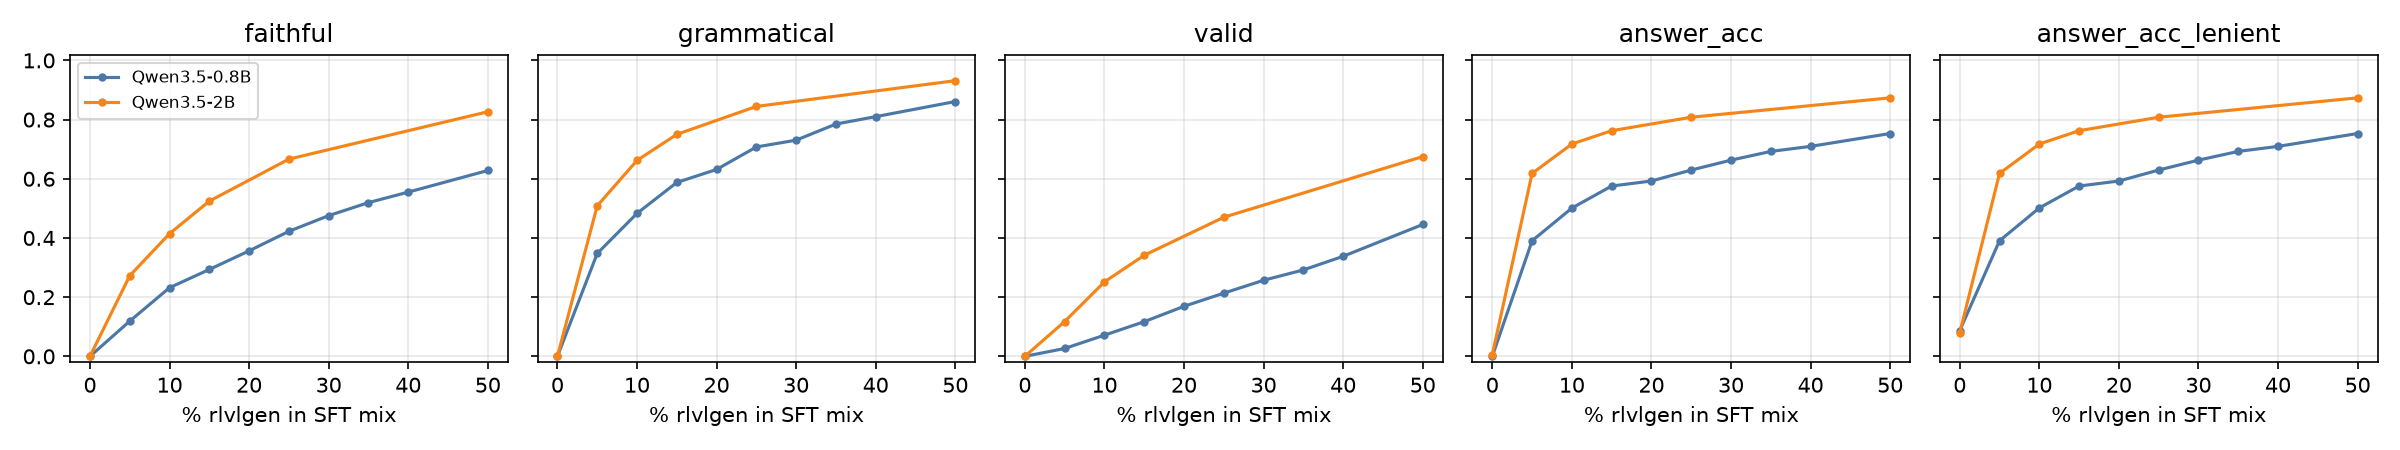
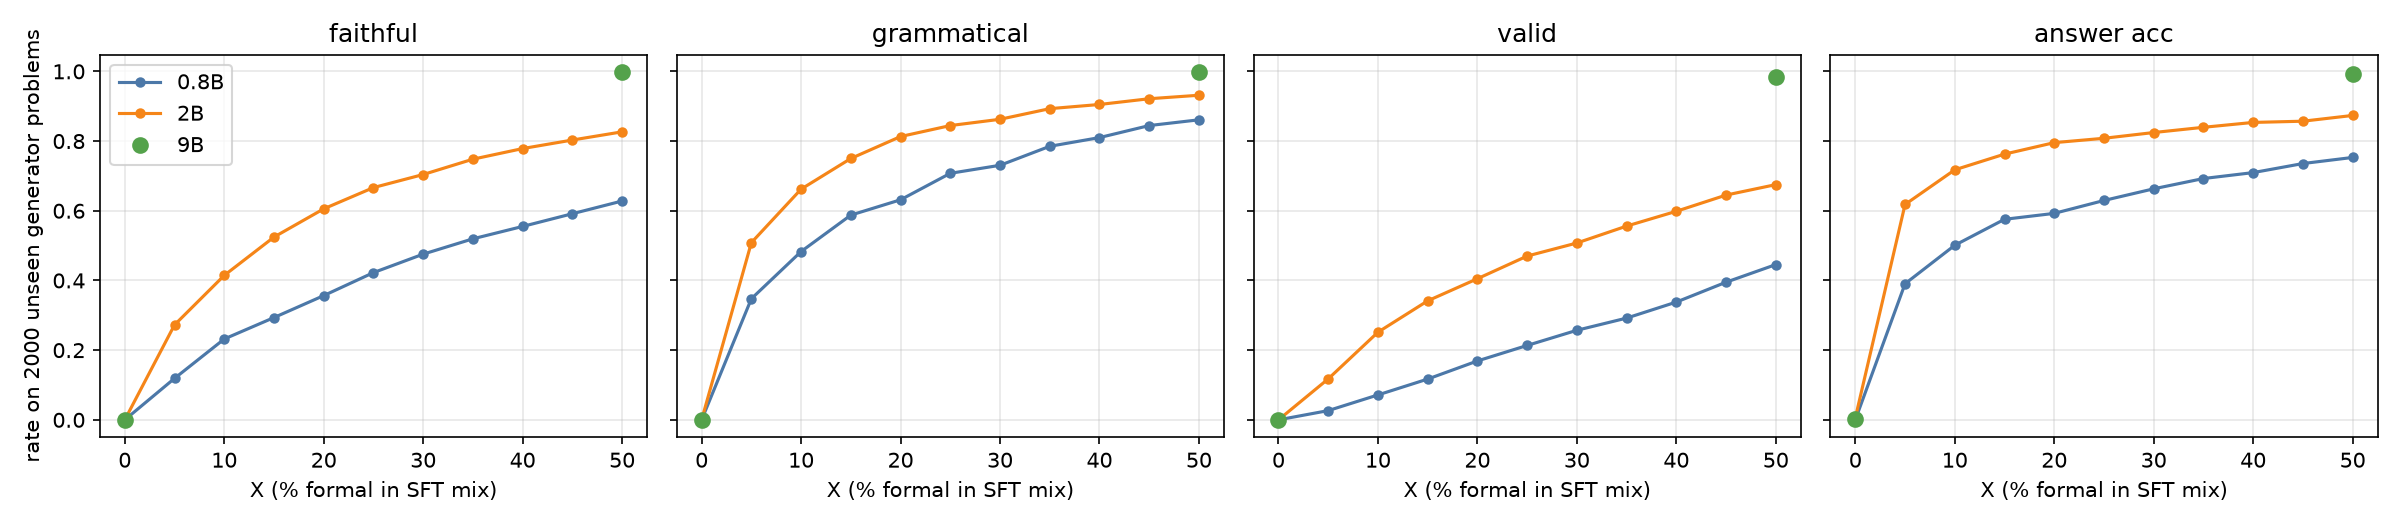
Stage 1: 9B p50 in-domain eval (valid .983), full 2B curve figure; G6g 7025, gate queue 7026
Claude-Session: https://claude.ai/code/session_01WnQYXLXLcnkw9LdZ4eJP3w

diff --git a/scripts/analysis/stage1_indomain_curves.py b/scripts/analysis/stage1_indomain_curves.py
@@ -1,0 +1,42 @@
+#!/usr/bin/env python
+"""In-domain rates vs mixture share X for every Stage-1 cell with a finished formal eval (2026-09-28).
+
+Reads rlvl_data/formal_mixture_sft_20260925/qwen35_<size>_dolci_rlvlgen_p<X>_lr5em6_seed3407/formal_eval/summary.json
+(2000 unseen generator problems per cell) and writes reports/figures/stage1_indomain_curves.png plus a
+markdown table on stdout.
+"""
+import json
+import re
+from pathlib import Path
+
+import matplotlib
+matplotlib.use("Agg")
+import matplotlib.pyplot as plt
+
+ROOT = Path("/vol/tmp2/laitenbf/rlvl_data/formal_mixture_sft_20260925")
+FIG = Path(__file__).resolve().parents[2] / "reports/figures"
+MET = [("faithful", "faithful"), ("grammatical", "grammatical"), ("valid", "valid"), ("answer_acc", "answer acc")]
+COL = {"0.8b": "#4C78A8", "2b": "#F58518", "9b": "#54A24B"}
+
+res = {}
+for f in ROOT.glob("qwen35_*_dolci_rlvlgen_p*_lr5em6_seed3407/formal_eval/summary.json"):
+    m = re.search(r"qwen35_([\d.]+b)_dolci_rlvlgen_p(\d+)", str(f))
+    res.setdefault(m[1], {})[int(m[2])] = json.load(open(f))["overall"]
+print("| model | X | " + " | ".join(l for _, l in MET) + " |\n|---|---|" + "---|" * len(MET))
+for size in sorted(res, key=lambda s: float(s[:-1])):
+    for x in sorted(res[size]):
+        print(f"| {size.upper()} | {x} | " + " | ".join(f"{res[size][x][k]:.3f}".replace("0.", ".", 1) for k, _ in MET) + " |")
+fig, axes = plt.subplots(1, len(MET), figsize=(4 * len(MET), 3.5), sharey=True)
+for ax, (k, lbl) in zip(axes, MET):
+    for size in sorted(res, key=lambda s: float(s[:-1])):
+        xs = sorted(res[size])
+        # sizes with few cells: points only, a line through 0 and 50 would suggest a measured trend
+        ax.plot(xs, [res[size][x][k] for x in xs], "-o" if len(xs) >= 4 else "o", ms=4 if len(xs) >= 4 else 7,
+                color=COL.get(size), label=size.upper())
+    ax.set_title(lbl)
+    ax.set_xlabel("X (% formal in SFT mix)")
+    ax.grid(alpha=.3)
+axes[0].set_ylabel("rate on 2000 unseen generator problems")
+axes[0].legend()
+fig.tight_layout()
+fig.savefig(FIG / "stage1_indomain_curves.png", dpi=150)

diff --git a/docs/current_system_state.md b/docs/current_system_state.md
@@ -9,7 +9,7 @@ This is the short operational handoff. Historical detail was preserved verbatim 
 - **Training:** Qwen3.5-Base 0.8B/2B at X=0..50 and 9B at X=0,10,25,50 are trained on Dolci with X% generated formal-CoT data.
 - **Evals:** in-domain faithful/grammatical/valid; untagged lm-eval downstream suite; format-tagged downstream eval (`eval_formal_bench_vllm.py`).
 - **Live state:** `docs/running_experiments.md`.
-- **Stage 2 (2026-09-28):** the gate failed (in_system ≈ 0.3% on the Dolci-RL prompts). The expert-iteration collection is done: prefix resampling solved 50 of 3,191 prompts, giving 77 proofs; the SFT is deferred. The GRPO pilots were restarted on a balanced prompt pool (`--max-per-bench 1200`) as 6960 (G1), 6962 (G0) and 6964 (G5 dense `lines`, gruenau12); 2B. G3 (6965) died at step 49 from an rlvl panic (fixed). The held-out gate on G5 @50 showed a circular-`given` hack, so `formal_rewards` now requires >= 1 derived line and no circular `given` for valid; the hardened arms are 6978 (G3b, gruenau12) and 7000 (G5c `lines_fmt`, gruenau8; also excludes tautological lines and zeroes the reward unless the output ends `</proof>` + `Answer:` line, after G5 padded and ran on past step 60). 6977 (G5b) cancelled. The user's fraction reward was audited (report update 21:00): plain `frac` pays an invented-premise 2-line proof 1.00 > gold .97; `frac_hard` (numeric premise check, format, no circular) floors all hacks except invented logic premises; exact faithfulness on generator items floors all. Arms: G6 (frac_hard Dolci) running as 7020 on gruenau9 A100 GPU0 (7006 OOMed on a shared L40; 7013 left no output); G6g (+ gen items) died on shared A100s (7007, 7009, 7021 guard exit on gruenau10) and waits for a clean GPU. 9B p50 gate (6933): in-system .020, correct .316 (9B p0 .259); 9B p50 formal eval resubmitted as 7019 (MAX_NUM_SEQS=128) after 6840 failed on Mamba cache blocks. 6964 (G5) cancelled at step 116. Foreign non-Slurm GPU processes: gruenau9 all A100s, gruenau10 GPU1-2, gruenau12 7 of 10 L40s (hallepat); `grpo_formal.slurm` has a MIN_FREE_MIB guard. GRPO code: `scripts/grpo_formal.py` + `.venv_rlvl_grpo`. Plan: `docs/research_plan.md`.
+- **Stage 2 (2026-09-28):** the gate failed (in_system ≈ 0.3% on the Dolci-RL prompts). The expert-iteration collection is done: prefix resampling solved 50 of 3,191 prompts, giving 77 proofs; the SFT is deferred. The GRPO pilots were restarted on a balanced prompt pool (`--max-per-bench 1200`) as 6960 (G1), 6962 (G0) and 6964 (G5 dense `lines`, gruenau12); 2B. G3 (6965) died at step 49 from an rlvl panic (fixed). The held-out gate on G5 @50 showed a circular-`given` hack, so `formal_rewards` now requires >= 1 derived line and no circular `given` for valid; the hardened arms are 6978 (G3b, gruenau12) and 7000 (G5c `lines_fmt`, gruenau8; also excludes tautological lines and zeroes the reward unless the output ends `</proof>` + `Answer:` line, after G5 padded and ran on past step 60). 6977 (G5b) cancelled. The user's fraction reward was audited (report update 21:00): plain `frac` pays an invented-premise 2-line proof 1.00 > gold .97; `frac_hard` (numeric premise check, format, no circular) floors all hacks except invented logic premises; exact faithfulness on generator items floors all. Arms: G6 (frac_hard Dolci) running as 7020 on gruenau9 A100 GPU0 (7006 OOMed on a shared L40; 7013 left no output); G6g (+ gen items) running as 7025 on gruenau10 A100 GPU0 (7007, 7009, 7021 died on shared GPUs). Gate queue 7026 (gruenau12) gates G0@100, G3b@50, G5c@50, G3b@100, G6@50. 9B p50 gate (6933): in-system .020, correct .316 (9B p0 .259); 9B p50 in-domain eval (7019): faithful .999, valid .983, answer .992 (2B p50 .827/.675/.874). 6964 (G5) cancelled at step 116. Foreign non-Slurm GPU processes: gruenau9 all A100s, gruenau10 GPU1-2, gruenau12 7 of 10 L40s (hallepat); `grpo_formal.slurm` has a MIN_FREE_MIB guard. GRPO code: `scripts/grpo_formal.py` + `.venv_rlvl_grpo`. Plan: `docs/research_plan.md`.
 
 ## Where To Look
 

diff --git a/docs/experiment_backlog.md b/docs/experiment_backlog.md
@@ -8,7 +8,7 @@ This file is for planned work that is not yet running. Running jobs live in `doc
 
 | Priority | Item | Why | Trigger |
 | --- | --- | --- | --- |
-| Next 2026-09-28 | Stage 2 GRPO arms G0–G5, full runs (`scripts/grpo_formal.py`) | Research plan Stage 2 | After the gate passes (EI bootstrap and 200-step balanced-pool pilots G1 6960, G0 6962, G5 6964 running; hardened-validity arms G3b 6978 / G5c 7000 (lines x format gate; G5b 6977 cancelled); fraction-reward arms G6 7020 (7006 OOM, 7013 no output) (frac_hard, Dolci) / G6g (7007/7009/7021 died on shared GPUs; waiting for a clean GPU) (frac_hard + generator items with exact faithfulness); next: semantic premise check for Dolci logic premises; see `reports/2026-09-28_stage2_gate.md`) |
+| Next 2026-09-28 | Stage 2 GRPO arms G0–G5, full runs (`scripts/grpo_formal.py`) | Research plan Stage 2 | After the gate passes (EI bootstrap and 200-step balanced-pool pilots G1 6960, G0 6962, G5 6964 running; hardened-validity arms G3b 6978 / G5c 7000 (lines x format gate; G5b 6977 cancelled); fraction-reward arms G6 7020 (7006 OOM, 7013 no output) (frac_hard, Dolci) / G6g 7025 (7007/7009/7021 died on shared GPUs); gate queue 7026 (frac_hard + generator items with exact faithfulness); next: semantic premise check for Dolci logic premises; see `reports/2026-09-28_stage2_gate.md`) |
 | Running 2026-09-25 | Formal-CoT SFT mixture sweep: 0.8B and 2B, X=0..50 | Lane layout, see `docs/running_experiments.md`. The 9B runs (X=0,10,25,50) run on gruenau11 with 2 × H100 under DeepSpeed ZeRO-2 CPU-offload + liger FLCE (FSDP OOMed; jobs 6837/6839/6841/6843). Downstream benchmarks for all cells run on guppi lanes (2026-09-26). | Run `scripts/analysis/analyze_formal_mixture_sweep.py` and `scripts/analysis/formal_mix_bench_table.py` as cells finish. Inspect raw generations. |
 | Pending 2026-09-26 | Format-tagged benchmarks for every sweep checkpoint (0.8B, 2B, 9B) | Measures whether models reason fully in the system on real benchmarks: grammatical, valid and in-system correct. The untagged lm-eval run only measures transfer. | Submit with `scripts/submit_formal_mix_bench_lanes.sh --tagged --chain ...` once Slurm is back and the smoke run (PER_BENCH_LIMIT=5) looks sane. Then run `scripts/analysis/formal_mix_tagged_table.py`. |
 | P0 sampled readout complete 2026-08-07 | Real-benchmark pass@k / maj@k readout for the three-way post-SFT checkpoints | `3962322_[0-5%3]` completed `0:0`; all six full-coverage audits accept corrected RoPE, prompt hashes, 16 samples/doc, and zero truncation. Raw correct/incorrect examples across all five tasks reproduce the established answer-boundary confound. Standard pass@16 control/logic/NL is `0.7588/0.7540/0.7621`; tagged multi-hop is `0.5150/0.5383/0.5283`, with sampled tag rates `0.6445/0.8346/0.8440` and fallback `0.5317/0.5417/0.5317`. | Diagnostic is ingested in `analysis/dolmino_threeway_post_sft_readout_20260806.md` and does not alter the one-run null-for-reasoning verdict. Do not use sampled pass@k/maj@k as a positive transfer claim or launch the percentage grid; P0 remains the compact/document-preserving loader gate. |

diff --git a/docs/project_log.md b/docs/project_log.md
@@ -4163,3 +4163,4 @@ Downstream benchmarks of the "Lead into Gold" paper now run for every checkpoint
 - 21:30: 7006 G6 died at step 0 with CUDA OOM: its L40 had only 26.8 GB free because hallepat runs non-Slurm Qwen3.5-4B evals (10-18 GB each) on 7 of the 10 gruenau12 L40s. 7009 G6g died at vLLM start on gruenau10 GPU0 (5.3 GB free; the GPU was shared). Cancelled 6964 (G5 lines at step 116, already shown hacked and gated @50/@100; held 3 L40s for one run, and with 6840/6933 starting put laitenbf at 6/10 on gruenau12). grpo_formal.slurm now exits 3 when free memory < MIN_FREE_MIB. Resubmitted G6 as 7013 (gruenau12 L40, MIN_FREE_MIB=44000). G6g is not resubmitted yet: no clean GPU is free within the caps (gruenau9 A100s all ~66-68 GB used by foreign processes).
 - 21:25: alex `/home/atuin` group quota cleanup (was 11.0T > 10.7T soft, 454K files; approved by the user): deleted the optimizer states of the 9 finished nanotron longwin midtrain runs (step 2385; model weights kept), the p30 intermediate step 2250, `post_sft_narrative_20260915/qwen25_7b_tulu3_control_seed3407/checkpoint-782` (final kept), the two large-LoRA smoke `checkpoint-4`, the HF cache of Qwen2.5-32B and Qwen3-30B-A3B-Base, and the vllm/uv/triton/inductor caches under `.cache_rlvl`. Now 9.8T, 402K files. Log: `/home/atuin/c107fa/c107fa12/synthetic-RLVL/cleanup_20260928.log`. Kept: all `post_sft_*/final`, datasets, eval outputs, and the orphan `qwen25_7b_dose_logic_p001_seed3407/checkpoint-500` (no final).
 - 21:45: 9B p50 gate (6933, 950 held-out, greedy): has_proof .765, grammatical .200, valid .032, correct .316 (9B p0 .259), in-system .020 (2B p50 .003). Correct rises on yes/no (.53 vs .18) and word problems (.56 vs .45) and falls ~.08 on math/DAPO, where 9B p50 still writes proofs that do not parse. 6840 (9B p50 formal eval) failed at vLLM start: hybrid model needs one Mamba cache block per sequence, a shared L40 fit 219 < 256. Added `--max-num-seqs` to eval_formal_vllm.py (`MAX_NUM_SEQS` in the eval job); resubmitted as 7019 (gruenau12 L40, 128). Report: stage2_gate update 21:45. G6 resubmitted as 7020 on gruenau9 (GPU0 clean now; 7013 left no output); G6g 7021 exited on the guard on gruenau10 (shared GPU).
+- 22:55: 9B p50 formal eval (7019, 2000 unseen generator problems): faithful .999, grammatical .999, valid .983, answer .992 (2B p50: .827/.931/.675/.874). 2B in-domain sweep complete (p20 eval after 6733 finished 21:58). New scripts/analysis/stage1_indomain_curves.py rebuilds the Stage-1 in-domain figure from all summaries. G6g resubmitted as 7025 on gruenau10 (GPU0 clean now; passed the guard). New scripts/slurm/jobs/grpo_gate_ckpts.slurm (standalone gate queue); 7026 on gruenau12 L40 gates G0@100, G3b@50, G5c@50, G3b@100, G6@50 as they are written. G6 7020 at step 18 (165 s/step).

diff --git a/docs/running_experiments.md b/docs/running_experiments.md
@@ -19,6 +19,7 @@ This file is the live Slurm dashboard. Historical details live in `docs/operatio
   - 2026-09-28 19:45: 6977 G5b cancelled at step ~27 (same lines formula as G5, which padded proofs and dropped the `Answer:` line after step 60). **7000 G5c `--arm lines_fmt` (gruenau8 A6000, partition gpu, batch 1, vllm-mem 0.25, 200 steps, save every 50)**: lines x format_ok, tautological derived lines excluded.
   - 2026-09-28 21:30: 7006 G6 died at step 0 with CUDA OOM: its L40 had only 26.8 GB free because hallepat runs non-Slurm Qwen3.5-4B evals (10-18 GB each) on 7 of the 10 gruenau12 L40s. 7009 G6g died at vLLM start on gruenau10 GPU0 (5.3 GB free; the GPU was shared). Cancelled 6964 (G5 lines at step 116, already shown hacked and gated @50/@100; held 3 L40s for one run, and with 6840/6933 starting put laitenbf at 6/10 on gruenau12). grpo_formal.slurm now exits 3 when free memory < MIN_FREE_MIB. Resubmitted G6 as 7013 (gruenau12 L40, MIN_FREE_MIB=44000). G6g is not resubmitted yet: no clean GPU is free within the caps (gruenau9 A100s all ~66-68 GB used by foreign processes).
   - 2026-09-28 21:45: 6840 (9B p50 formal eval) failed at vLLM start (Mamba cache blocks 219 < max_num_seqs 256 on a shared L40); resubmitted as 7019 with MAX_NUM_SEQS=128. 9B p50 gate 6933 done (in-system .020, correct .316). G6 resubmitted as 7020 (gruenau9 A100, MIN_FREE_MIB=60000); G6g 7021 guard exit on gruenau10.
+  - 2026-09-28 22:55: 7019 (9B p50 formal eval) done: valid .983. G6g resubmitted as 7025 (gruenau10 A100, passed guard). 7026 grpo_gate (gruenau12 L40, 8 CPU / 60G) gates G0@100, G3b@50, G5c@50, G3b@100, G6@50 in turn.
   - 2026-09-28 21:00: **7006 G6 `--arm frac_hard` (gruenau12 L40, partition gpu-staff)** on Dolci math/wordprob/yesno; **7009 G6g `--arm frac_hard --benches gen,dolci_math,dolci_wordprob,dolci_yesno` (gruenau10 A100, partition gpu, `--cpus-per-task=8 --mem=60G`; 7007 died on gruenau9, where a foreign process fills the A100s; 7008 cancelled because 100G needs 13 CPUs at MaxMemPerCPU=8G)**. Both 2B p50, batch 1, vllm-mem 0.25, 200 steps, save every 50. frac_hard = ((%parsed + %checked derived lines) x premise ok x format ok x not circular + correct) / 3; premise ok = numbers in each `given` occur in its quote, or exact faithfulness on gen items.
   - Question: does a dense line-credit reward (user suggestion, hardened) raise grammatical/valid rates before EI yields enough proofs?
 - **Gate on GRPO checkpoints** (17:10, `scripts/slurm/jobs/grpo_gate_ckpts_in_6964.sh`, run with `srun --jobid 6964 --overlap` on the allocation's otherwise idle third L40, so no extra GPU): G5 ckpt-50, G1 ckpt-100, G0 ckpt-50, output `<run>/<ckpt>/rl_gate_dolci/`. Log `logs/grpo_gate_ckpts_6964.log`.

diff --git a/reports/2026-09-28_stage1_interim.md b/reports/2026-09-28_stage1_interim.md
@@ -21,6 +21,8 @@ Plan: `docs/research_plan.md`, Stage 1.
 | 2B | 10 | .414 | .662 | .252 | .718 | .870 |
 | 2B | 25 | .666 | .845 | .470 | .808 | .873 |
 | 2B | 50 | .827 | .931 | .675 | .874 | .879 |
+| 9B | 0 | .000 | .000 | .000 | .001 | – |
+| 9B | 50 | .999 | .999 | .983 | .992 | – |
 
 \*The 0.8B p25 run trained on 1 GPU with grad-accum 128 (a busy-card fallback), so its loss is not directly comparable.
 
@@ -28,6 +30,7 @@ Plan: `docs/research_plan.md`, Stage 1.
 - All four skills rise monotonically with X and have not saturated at 50%. The 2B model learns about 1.5–2× more per percent than the 0.8B.
 - Faithful translation (prompt → premises) is the bottleneck: 2B p50 is 83% faithful but 93% grammatical.
 - The cost on held-out Dolci loss is small (+0.011 for 2B at 50%).
+- *Update 22:55:* **9B p50 almost solves the in-domain task.** It is 99.9% faithful, 98.3% valid and 99.2% correct on the answer; 2B p50 is at 83% / 68% / 87%. The faithfulness bottleneck is a capacity limit that 9B removes. The figure now draws the full 0.8B and 2B curves (X = 0, 5, ..., 50) and the 9B points; 9B p25 and p10 are still training.
 
 ## 2. Transfer without the tag (untagged lm-eval suite, "Lead into Gold" protocol)
 
@@ -76,4 +79,4 @@ ProofWriter: 68% grammatical, 20% valid, 16% in-system.
 ## Pending
 - Full tagged eval for all checkpoints.
 - 9B results.
-- 2B p20, p30, p35, p40 and p45 (training, evals and benches are running).
+- 2B untagged benches and tagged evals for the last cells (p20 6824/6919 are running). The in-domain eval of every 2B cell is done.
